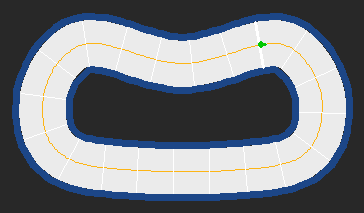
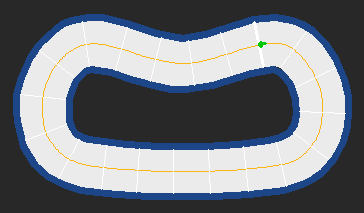
House driver rewritten (MAP-style steering, speed profile, bounded-trim throttle); proxy port off the container range; opponent uses the house driver

diff --git a/devkit/feb_tools/feb_tools/house_driver.py b/devkit/feb_tools/feb_tools/house_driver.py
@@ -1,0 +1,181 @@
+"""The house driver: a competent, predictable opponent that follows the track's centreline.
+
+It knows the map (track.json) and uses the simulator's position and orientation, which
+competitors may not do at race time. That is the point: it is the rabbit, not an entry.
+
+Steering: MAP-style pursuit (L1 guidance plus a curvature feed-forward, capped at the tyre's
+slip peak, lightly low-passed), from the IROS 2026 league stack in ~/roboracer.
+Speed: a profile along the path from curvature with a braking backward pass, tracked by
+feed-forward plus a bounded trim (throttle 0 is a hard brake in this simulator, so a plain
+PI loop limit-cycles), slew-limited, with a hysteretic brake regime for real overspeed.
+
+    ros2 run feb_tools house_driver --ros-args -p track:=/path/to/track/folder -p max_speed:=2.5
+"""
+import json
+import math
+import pathlib
+
+import numpy as np
+import rclpy
+from geometry_msgs.msg import Point
+from rclpy.node import Node
+from rclpy.qos import QoSDurabilityPolicy, QoSHistoryPolicy, QoSProfile, QoSReliabilityPolicy
+from sensor_msgs.msg import Imu, JointState
+from std_msgs.msg import Float32
+
+NS = "/autodrive/roboracer_1/"
+QOS = QoSProfile(reliability=QoSReliabilityPolicy.RELIABLE, durability=QoSDurabilityPolicy.VOLATILE,
+                 history=QoSHistoryPolicy.KEEP_LAST, depth=10)
+WHEELBASE = 0.324
+WHEEL_RADIUS = 0.059
+MAX_STEER = 0.5236
+SLIP_PEAK = 0.30          # rad; the tyre's lateral grip peaks here, steering past it turns less
+STEER_DELAY = 0.25        # s; command-to-wheel lag measured on this car
+
+
+class HouseDriver(Node):
+    def __init__(self):
+        super().__init__("house_driver")
+        defaults = dict(track="", max_speed=2.5, min_speed=0.8, lat_accel=4.5, decel=5.0, accel=4.0,
+                        speed_per_throttle=23.0, throttle_kp=0.05, throttle_ki=0.03, rate=40.0)
+        for key, value in defaults.items():
+            self.declare_parameter(key, value)
+        self.p = {k: self.get_parameter(k).value for k in defaults}
+
+        track = json.loads((pathlib.Path(self.p["track"]) / "track.json").read_text())
+        self.path = np.asarray(track["centreline"], dtype=float).reshape(-1, 2)
+        self.ds = float(track["length"]) / len(self.path)
+        self.kappa = self.signed_curvature()
+        self.v_ref = self.speed_profile()
+
+        self.position = None
+        self.yaw = None
+        self.yaw_rate = 0.0
+        self.speed = 0.0
+        self.encoders = {}
+        self.v_target = 0.0
+        self.integral = 0.0
+        self.throttle = 0.0
+        self.steer = 0.0
+        self.braking = False
+
+        self.pub_throttle = self.create_publisher(Float32, NS + "throttle_command", QOS)
+        self.pub_steering = self.create_publisher(Float32, NS + "steering_command", QOS)
+        self.create_subscription(Point, NS + "ips", self.on_position, QOS)
+        self.create_subscription(Imu, NS + "imu", self.on_imu, QOS)
+        for side in ("left", "right"):
+            self.create_subscription(JointState, NS + side + "_encoder", self.on_encoder, QOS)
+        self.dt = 1.0 / self.p["rate"]
+        self.create_timer(self.dt, self.step)
+        self.get_logger().info(f"house driver on '{track['name']}' at {self.p['max_speed']} m/s "
+                               f"(profile mean {self.v_ref.mean():.2f} m/s)")
+
+    # ---------------------------------------------------------------- path model
+
+    def signed_curvature(self):
+        """Curvature along the closed centreline (positive = left turn), smoothed over ~0.5 m."""
+        d = np.roll(self.path, -1, axis=0) - np.roll(self.path, 1, axis=0)
+        heading = np.unwrap(np.arctan2(d[:, 1], d[:, 0]))
+        kappa = np.gradient(heading) / self.ds
+        w = max(1, int(0.5 / self.ds))
+        padded = np.concatenate([kappa[-w:], kappa, kappa[:w]])
+        return np.convolve(padded, np.ones(w) / w, mode="same")[w:-w]
+
+    def speed_profile(self):
+        """Cornering limit from curvature, then a backward pass (braking) and a forward pass
+        (acceleration) so the profile is reachable; two laps of passes close the loop."""
+        v = np.sqrt(self.p["lat_accel"] / np.maximum(np.abs(self.kappa), 1e-3))
+        v = np.clip(v, self.p["min_speed"], self.p["max_speed"])
+        n = len(v)
+        for _ in range(2):
+            for i in range(n - 1, -1, -1):
+                v[i] = min(v[i], math.sqrt(v[(i + 1) % n] ** 2 + 2.0 * self.p["decel"] * self.ds))
+            for i in range(n):
+                v[(i + 1) % n] = min(v[(i + 1) % n], math.sqrt(v[i] ** 2 + 2.0 * self.p["accel"] * self.ds))
+        return v
+
+    # ---------------------------------------------------------------- sensing
+
+    def on_position(self, msg):
+        self.position = np.array([msg.x, msg.y])
+
+    def on_imu(self, msg):
+        q = msg.orientation
+        self.yaw = math.atan2(2.0 * (q.w * q.z + q.x * q.y), 1.0 - 2.0 * (q.y * q.y + q.z * q.z))
+        self.yaw_rate = msg.angular_velocity.z
+
+    def on_encoder(self, msg):
+        t = msg.header.stamp.sec + msg.header.stamp.nanosec * 1e-9
+        angle = float(msg.position[0])
+        last = self.encoders.get(msg.header.frame_id)
+        self.encoders[msg.header.frame_id] = (t, angle)
+        if last and angle >= last[1] and t - last[0] > 1e-3:
+            v = (angle - last[1]) / (t - last[0]) * WHEEL_RADIUS
+            if v < 25.0:
+                self.speed = 0.7 * self.speed + 0.3 * v
+
+    # ---------------------------------------------------------------- control
+
+    def step(self):
+        if self.position is None or self.yaw is None:
+            return
+        v = max(self.speed, 0.3)
+        # act where the command will land: predict the pose one steering delay ahead
+        yaw = self.yaw + self.yaw_rate * STEER_DELAY
+        pos = self.position + v * STEER_DELAY * np.array([math.cos(self.yaw), math.sin(self.yaw)])
+        i0 = int(np.argmin(np.linalg.norm(self.path - pos, axis=1)))
+        n = len(self.path)
+
+        # --- steering: L1 pursuit + curvature feed-forward, inverted through the bicycle model
+        ld = 0.35 + 0.22 * v
+        j = (i0 + max(1, int(ld / self.ds))) % n
+        dx, dy = self.path[j] - pos
+        eta = math.atan2(dy, dx) - yaw
+        eta = math.atan2(math.sin(eta), math.cos(eta))
+        kappa_fb = 2.0 * math.sin(eta) / max(math.hypot(dx, dy), 0.3)
+        kappa_ff = 0.6 * float(self.kappa[(i0 + max(1, int(0.15 * v / self.ds))) % n])
+        delta = float(np.clip(math.atan((kappa_fb + kappa_ff) * WHEELBASE), -SLIP_PEAK, SLIP_PEAK))
+        self.steer += (delta - self.steer) * min(1.0, self.dt / 0.06)
+
+        # --- speed: lowest profile speed over the next 0.3 s, low-passed
+        window = [(i0 + k) % n for k in range(max(2, int(0.3 * v / self.ds)))]
+        target = float(self.v_ref[window].min())
+        self.v_target += (target - self.v_target) * min(1.0, self.dt / 0.3)
+        self.throttle = self.throttle_law(self.speed, self.v_target)
+
+        self.pub_throttle.publish(Float32(data=self.throttle))
+        self.pub_steering.publish(Float32(data=self.steer / MAX_STEER))
+
+    def throttle_law(self, v, v_t):
+        """Feed-forward plus a trim bounded to half of it: the command never falls to zero
+        (a hard brake) while speed is wanted. Real overspeed uses the brake with hysteresis."""
+        if self.braking:
+            self.braking = v > v_t + 0.2
+        elif v > v_t + 0.6:
+            self.braking = True
+        if self.braking:
+            self.integral = 0.0
+            return 0.0
+        ff = v_t / self.p["speed_per_throttle"]
+        err = v_t - v
+        self.integral = float(np.clip(self.integral + err * self.dt, -0.8, 0.8))
+        trim = float(np.clip(self.p["throttle_kp"] * err + self.p["throttle_ki"] * self.integral, -0.5 * ff, 0.5 * ff))
+        wanted = float(np.clip(ff + trim, 0.0, 1.0))
+        slew = 0.8 * self.dt
+        return float(np.clip(wanted, self.throttle - slew, self.throttle + slew)) if self.throttle > 0.0 else wanted
+
+
+def main():
+    rclpy.init()
+    node = HouseDriver()
+    try:
+        rclpy.spin(node)
+    except KeyboardInterrupt:
+        pass
+    finally:
+        node.pub_throttle.publish(Float32(data=0.0))
+        node.destroy_node()
+
+
+if __name__ == "__main__":
+    main()

diff --git a/tools/track_build.py b/tools/track_build.py
@@ -102,6 +102,12 @@ def distance_to(contour, shape):
     return cv2.distanceTransform(canvas, cv2.DIST_L2, 5)
 
 
+def inside(mask, p):
+    h, w = mask.shape
+    c, r = int(round(p[0])), int(round(p[1]))
+    return 0 <= c < w and 0 <= r < h and mask[r, c] > 0
+
+
 def simplify(contour, tolerance_px=SIMPLIFY_PX):
     approx = cv2.approxPolyDP(contour.astype(np.float32).reshape(-1, 1, 2), tolerance_px, True)
     return approx.reshape(-1, 2).astype(float)
@@ -129,31 +135,31 @@ def smooth_closed(points, window):
 def centreline_px(mask, outer, hole, d_outer, d_hole):
     """Walk outward from the hole boundary until equidistant from both walls."""
     h, w = mask.shape
-    pts = resample_closed(hole, spacing=4.0)
-    tangents = np.roll(pts, -1, axis=0) - np.roll(pts, 1, axis=0)
-    tangents /= np.linalg.norm(tangents, axis=1, keepdims=True)
-    normals = np.stack([-tangents[:, 1], tangents[:, 0]], axis=1)
-
-    def inside(p):
-        c, r = int(round(p[0])), int(round(p[1]))
-        return 0 <= c < w and 0 <= r < h and mask[r, c] > 0
-
-    # pick the normal sign that points into the corridor
-    probe = pts + 3.0 * normals
-    if np.mean([inside(p) for p in probe]) < 0.5:
-        normals = -normals
+    pts, normals = contour_normals(hole, mask, spacing=4.0, into_corridor=True)
 
     centre = []
     for p, n in zip(pts, normals):
         q = p.copy()
         for _ in range(int(max(h, w))):
             q += 0.5 * n
-            if not inside(q):
+            if not inside(mask, q):
                 break
             if d_outer[int(round(q[1])), int(round(q[0]))] <= d_hole[int(round(q[1])), int(round(q[0]))]:
                 centre.append(q.copy())
                 break
     return np.array(centre)
+
+
+def contour_normals(contour, mask, spacing, into_corridor):
+    """Resampled contour points and unit normals pointing into (or away from) the corridor."""
+    pts = smooth_closed(resample_closed(contour, spacing), window=5)
+    tangents = np.roll(pts, -1, axis=0) - np.roll(pts, 1, axis=0)
+    tangents /= np.maximum(np.linalg.norm(tangents, axis=1, keepdims=True), 1e-9)
+    normals = np.stack([-tangents[:, 1], tangents[:, 0]], axis=1)
+    inward = np.mean([inside(mask, p) for p in pts + 3.0 * normals]) >= 0.5
+    if inward != into_corridor:
+        normals = -normals
+    return pts, normals
 
 
 def signed_area(xy):
@@ -179,11 +185,13 @@ def yaw_at(xy, i):
 # ---------------------------------------------------------------- features
 
 def build_walls(mask, radius_px, frame):
-    """Wall centre polylines (metres): the corridor boundary pushed out by the duct radius."""
-    k = 2 * int(math.ceil(radius_px)) + 1
-    grown = cv2.dilate(mask, cv2.getStructuringElement(cv2.MORPH_ELLIPSE, (k, k)))
-    outer, holes = boundaries(grown)
-    loops = [frame.to_map(simplify(c)) for c in [outer] + holes]
+    """Wall centre polylines (metres): each corridor boundary pushed away from the corridor by the
+    duct radius along its normals, so thin islands stay one loop."""
+    outer, holes = boundaries(mask)
+    loops = []
+    for contour in [outer] + holes:
+        pts, normals = contour_normals(contour, mask, spacing=2.0, into_corridor=False)
+        loops.append(frame.to_map(simplify(pts + radius_px * normals)))
     return [w for w in loops if cv2.arcLength(w.astype(np.float32), True) >= MIN_WALL_LENGTH]
 
 

diff --git a/febrace/h2h.py b/febrace/h2h.py
@@ -26,7 +26,7 @@ PROXY_IMAGE = os.environ.get("FEB_DEVKIT_IMAGE", "ghcr.io/pranman1/feb-devkit:la
 
 
 class Race:
-    def __init__(self, entries, track, sim_exe, event, race_id, rules, base_port=4568, rct_port=4570,
+    def __init__(self, entries, track, sim_exe, event, race_id, rules, base_port=4568, proxy_port=4580,
                  headless=True, runs_dir=pathlib.Path("runs")):
         stamp = dt.datetime.now().strftime("%Y%m%d-%H%M%S")
         self.cars = [Attempt(image=image, track=track, sim_exe=sim_exe, team=team, event=event, rules=rules,
@@ -36,7 +36,7 @@ class Race:
             car.id = f"{stamp}-{race_id}-{car.team.replace(' ', '_')}"
             car.dir = pathlib.Path(runs_dir) / f"{stamp}-{race_id}" / f"car{i + 1}"
             car.container = f"feb-h2h-{stamp}-{i + 1}"
-        self.race_id, self.proxy_port, self.proxy = race_id, rct_port, f"feb-proxy-{stamp}"
+        self.race_id, self.proxy_port, self.proxy = race_id, proxy_port, f"feb-proxy-{stamp}"
 
     def run(self, on_event=print):
         started = dt.datetime.now(dt.timezone.utc)

diff --git a/febrace/probe.py b/febrace/probe.py
@@ -50,7 +50,7 @@ def settle_lap_time(node, state, before, wait=2.0):
     to change from the raw value seen at the previous lap. The simulator reports +inf until the
     first lap, which JSON cannot carry: use None."""
     deadline = time.time() + wait
-    while time.time() < deadline and state.get("last_lap_time") in (before, None):
+    while time.time() < deadline and (state.get("last_lap_time") in (before, None) or not math.isfinite(state["last_lap_time"])):
         rclpy.spin_once(node, timeout_sec=0.05)
     t = state.get("last_lap_time")
     return t if t is not None and math.isfinite(t) else None

diff --git a/devkit/feb_tools/setup.py b/devkit/feb_tools/setup.py
@@ -19,5 +19,6 @@ setup(
     maintainer_email="pranavbhatttheonlyone@gmail.com",
     description="FEB devkit extras",
     license="BSD-2-Clause",
-    entry_points={"console_scripts": ["sensor_noise = feb_tools.sensor_noise:main"]},
+    entry_points={"console_scripts": ["sensor_noise = feb_tools.sensor_noise:main",
+                                      "house_driver = feb_tools.house_driver:main"]},
 )

diff --git a/docs/handbook.md b/docs/handbook.md
@@ -41,7 +41,7 @@ and throttle in [-1, 1] (0 is a hard brake). Everything else is a sensor.
    starts the container (which builds your packages), then the simulator, connected. Edit,
    rerun. `./feb-sim shell` gives a ROS 2 shell in the container (`ros2 topic echo`, `rqt`).
    Options: `--track porto`, `--noise 1`, `--lidar-hz 10`, `--opponent normal`, `--camera Trackcam`.
-   In the app: the menu's Track and Cars dropdowns switch tracks and put more cars on the grid.
+   In the app: the menu's "Track" and "Cars" buttons cycle tracks and put more cars on the grid.
 4. **Score yourself.** `./feb-sim practice --stack "..."`: warm-up plus 10 timed laps, 10 s per
    collision, DNF after 300 s. The result and a bag land in `runs/<id>/`.
 5. **Post it.** `./feb-sim submit`: opens a pull request with the result file; a check validates
@@ -91,7 +91,7 @@ and flags the result. Everything must start from the container's entrypoint, not
 | Simulator players | `~/FEB/feb-sim/Builds/{linux,mac,windows}`; Linux also linked at `~/.feb-sim/app/linux` |
 | Unity editor | `~/Unity/Hub/Editor/2022.3.52f1` (licensed via Hub sign-in) |
 | Run folders | `~/FEB/feb-racing/runs/<id>/` (result.json, sim.log, container.log, bag) |
-| Ports | 4567 member devkit, 4568+ harness containers, 4570 proxy, 4565/4566 launcher opponent |
+| Ports | 4567 member devkit, 4568+ harness containers (one per car), 4580 harness proxy, 4565/4566 launcher proxy and opponent |
 
 ## Frequently hit
 
